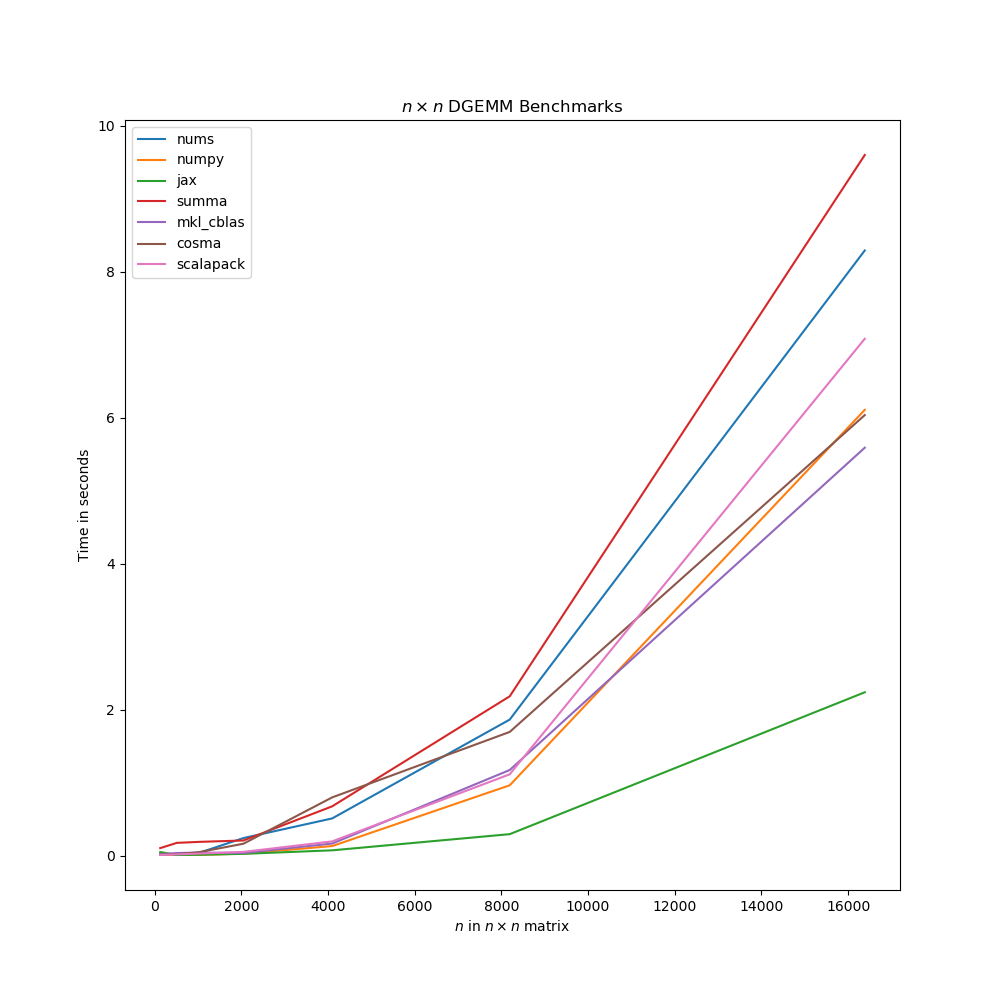
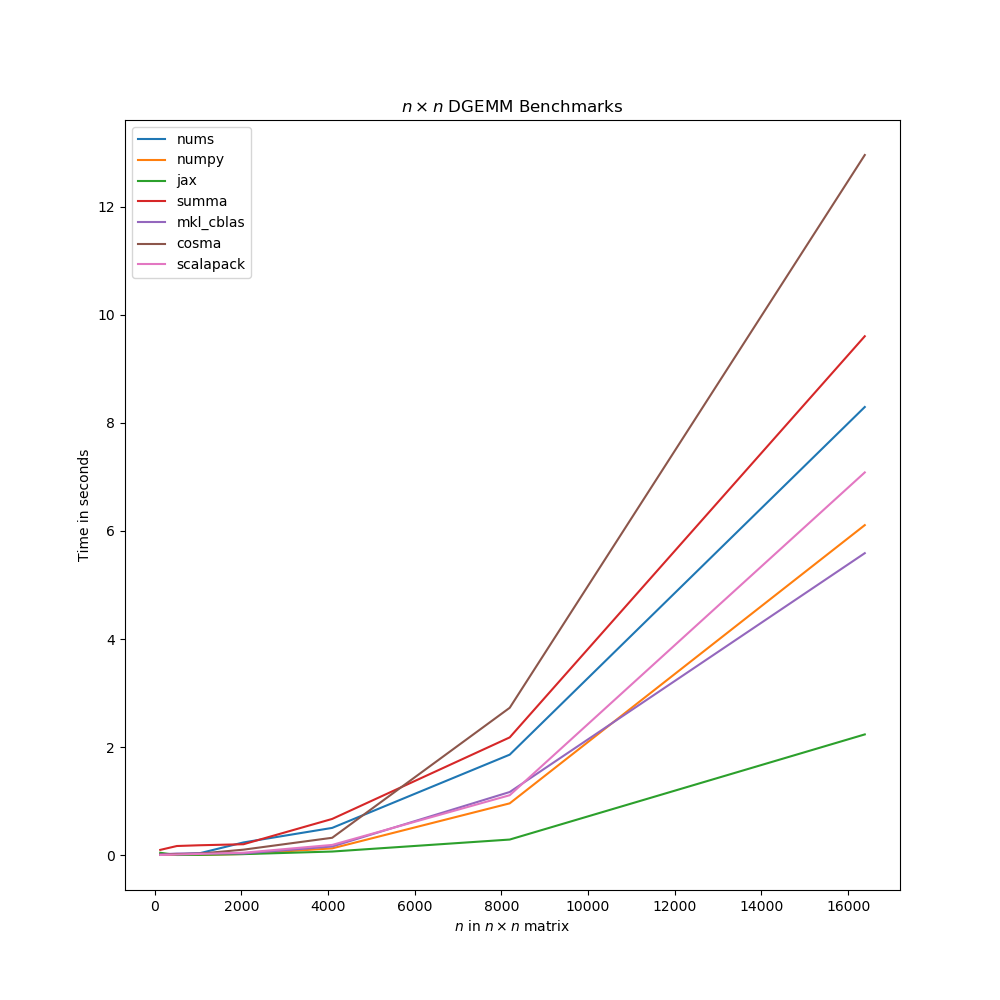
update cosma benchmarks

diff --git a/benchmark/plotter.py b/benchmark/plotter.py
@@ -7,7 +7,7 @@ jax = [0.04932808876037598, 0.008392572402954102, 0.011348962783813477, 0.024466
 numpy = [0.015555858612060547, 0.009791851043701172, 0.009885072708129883, 0.027075767517089844, 0.1310594081878662, 0.9636118412017822, 6.108663082122803]
 mkl_cblas = [0.0195606, 0.0356428, 0.0408835, 0.0366671, 0.165296, 1.17308, 5.58987]
 summa = [0.102857, 0.174629, 0.188206, 0.207394, 0.675447, 2.18323, 9.60133]
-cosma = [0.012, 0.021, 0.047, 0.163, 0.798, 1.695, 6.037]
+cosma = [0.013, 0.025, 0.033, 0.107, 0.327, 2.731, 12.953]
 scalapack = [0.009, 0.017, 0.028, 0.051, 0.195, 1.114, 7.083]
 
 plt.figure(figsize=(10, 10))
